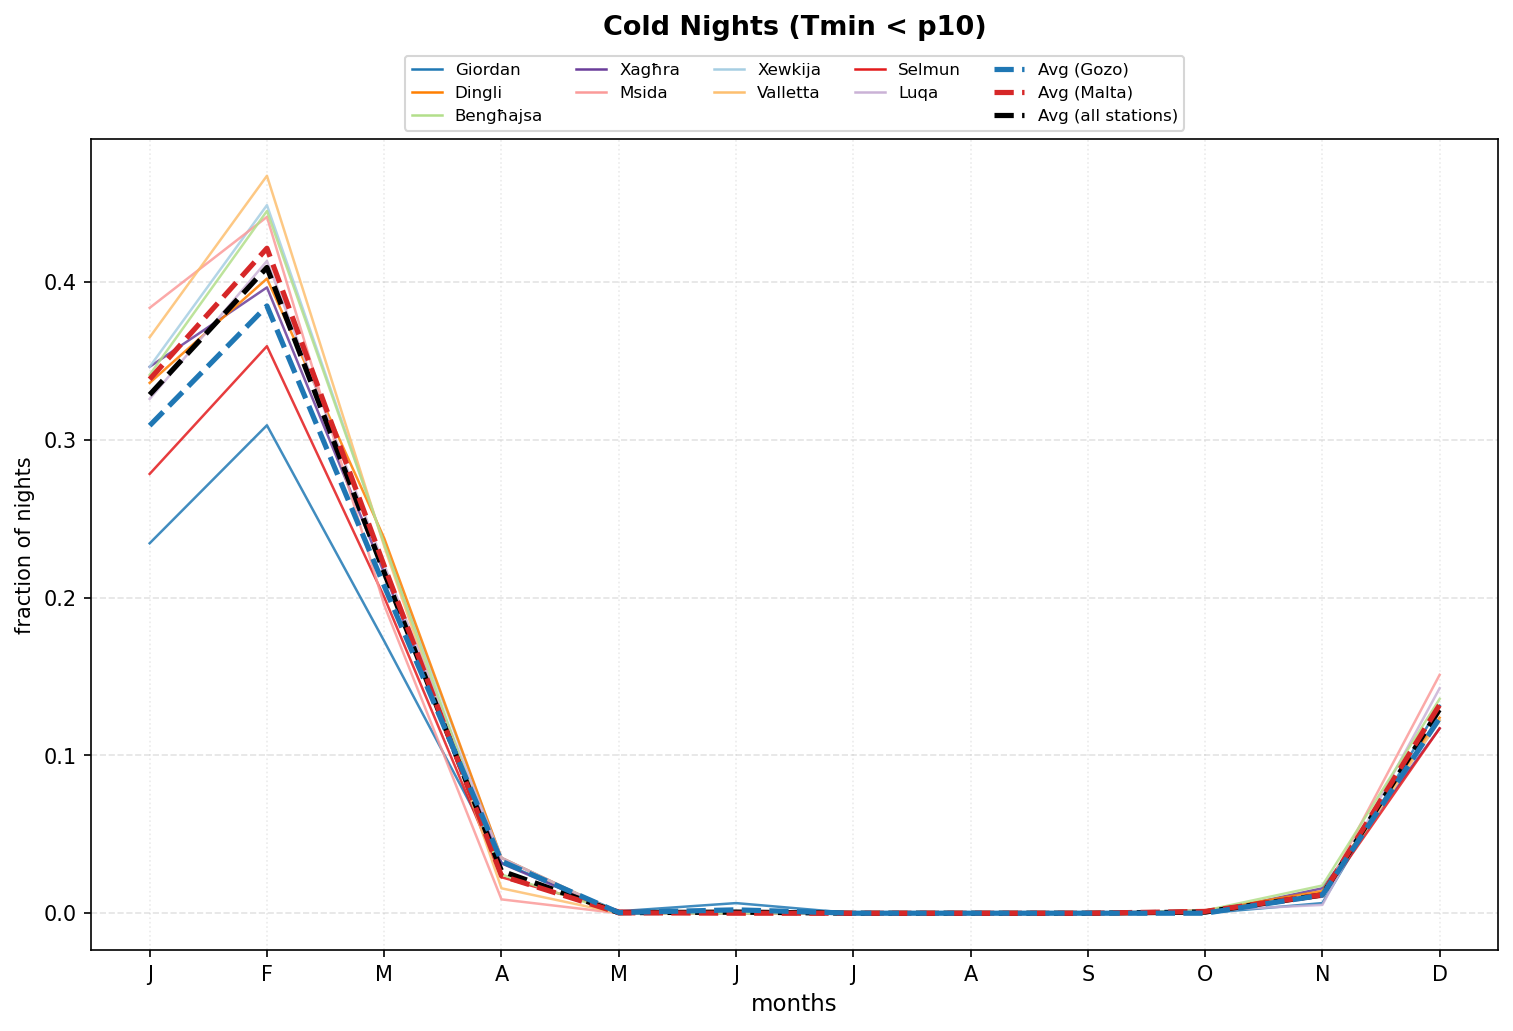
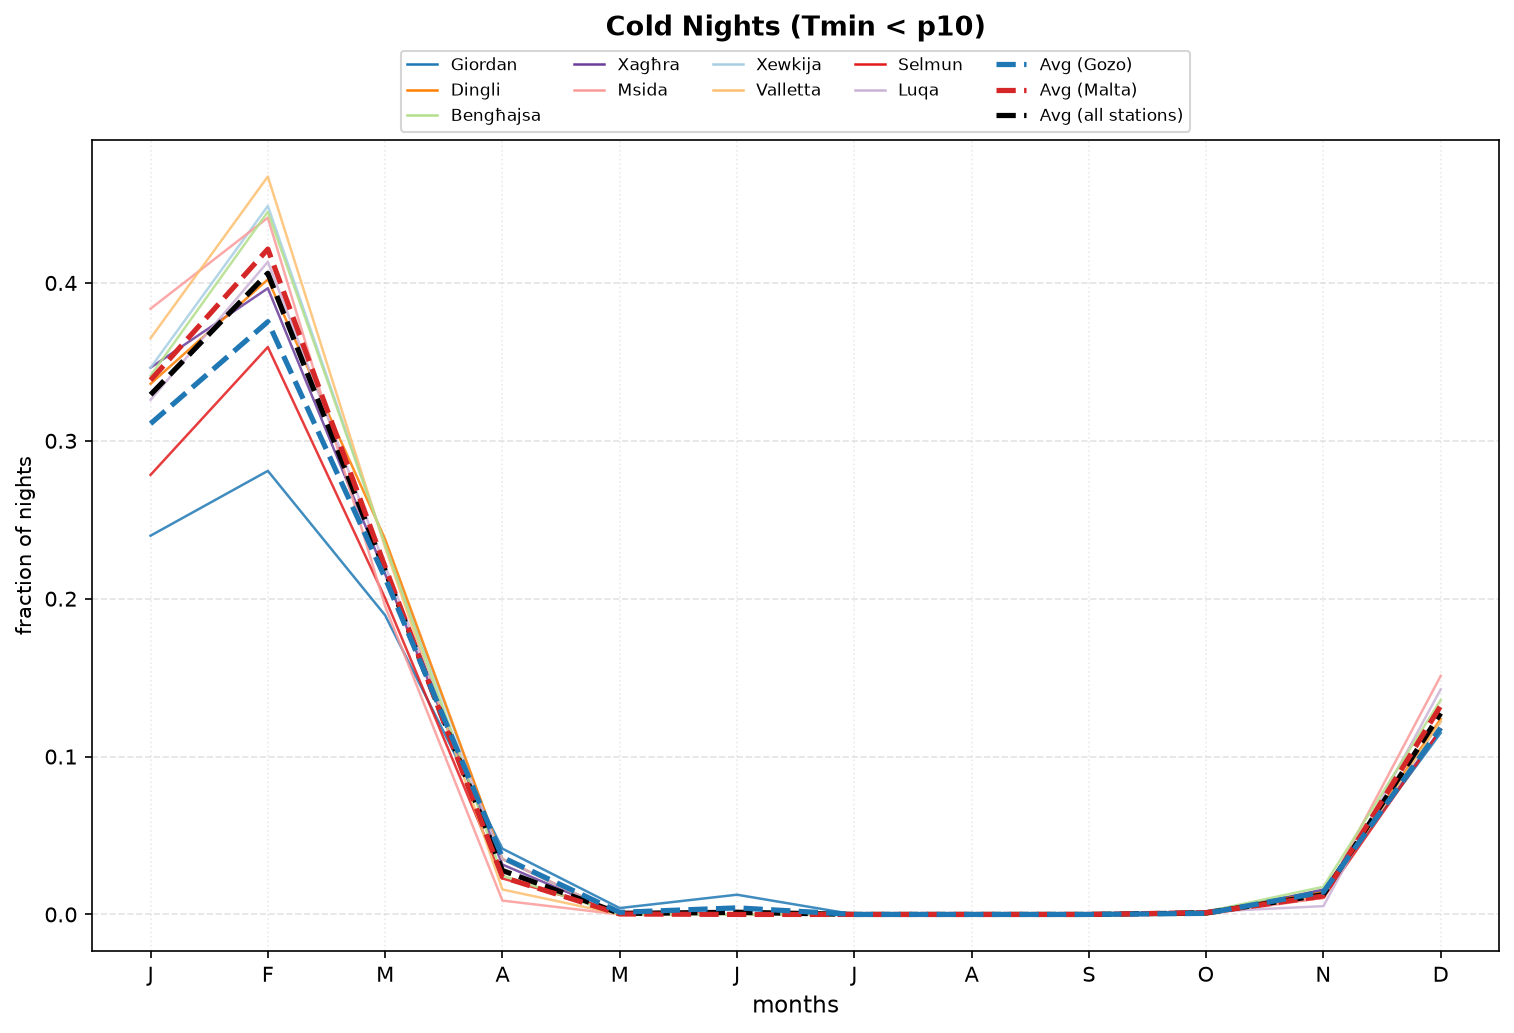
continued update to Giordan time-range

diff --git a/4.1_Coastal-and-topographic/Fig10_coastal_scatter_panel.py b/4.1_Coastal-and-topographic/Fig10_coastal_scatter_panel.py
@@ -284,6 +284,9 @@ def main():
             trial = f"{workdir}/Data/Daily_{cand}.csv"
             if os.path.exists(trial):
                 daily_data[abbr] = pd.read_csv(trial, header=0)
+                d = pd.read_csv(trial, header=0)
+                d[DATE_COL] = pd.to_datetime(d[DATE_COL], dayfirst=True, errors="coerce")
+                daily_data[abbr] = d[d[DATE_COL] >= pd.Timestamp("2007-01-01")]
                 break
 
     fig, axes = plt.subplots(NROWS, NCOLS, figsize=(11.0, 8.5), squeeze=False)

diff --git a/3.1_Station-climatologies/annual-cycle/plot_annual_cycle_summary.py b/3.1_Station-climatologies/annual-cycle/plot_annual_cycle_summary.py
@@ -176,6 +176,7 @@ def load_daily(station):
         print(f"  [warn] '{DATE_COL}' column not found in {filepath}. Columns: {list(df.columns)}")
         return None
     df[DATE_COL] = pd.to_datetime(df[DATE_COL], dayfirst=True, errors="coerce")
+    df = df[df['Date'] >= pd.Timestamp("2007-01-01")]
     df = df.dropna(subset=[DATE_COL])
     return df
 

diff --git a/3.2_Wind-flow-regimes/Fig7_plot_windrose_panel.py b/3.2_Wind-flow-regimes/Fig7_plot_windrose_panel.py
@@ -91,6 +91,8 @@ def load_wind_data(abbr):
         return None, None
     try:
         df = pd.read_csv(filepath, header=0)
+        df[DATE_COL] = pd.to_datetime(df[DATE_COL], dayfirst=True, errors="coerce")
+        df = df[df[DATE_COL] >= pd.Timestamp("2007-01-01")]
 
         def find_col(target):
             if target in df.columns:

diff --git a/3.1_Station-climatologies/annual-cycle/plot_annual_cycle_indices.py b/3.1_Station-climatologies/annual-cycle/plot_annual_cycle_indices.py
@@ -367,6 +367,7 @@ def load_daily(station):
         print(f"  [warn] '{DATE_COL}' not found in {filepath}")
         return None
     df[DATE_COL] = pd.to_datetime(df[DATE_COL], dayfirst=True, errors="coerce")
+    df = df[df['Date'] >= pd.Timestamp("2007-01-01")]
     df = df.dropna(subset=[DATE_COL]).set_index(DATE_COL)
     return df
 
